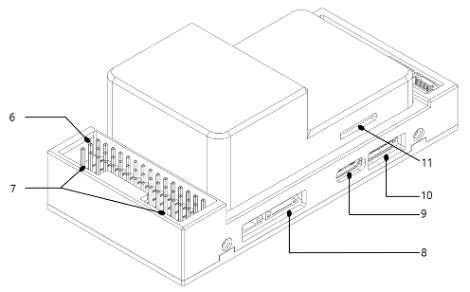
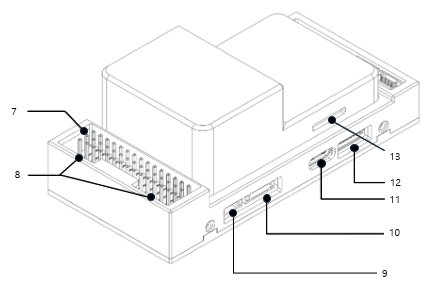
Update common-NarinFC-H7.rst

diff --git a/common/source/docs/common-NarinFC-H7.rst b/common/source/docs/common-NarinFC-H7.rst
@@ -1,50 +1,81 @@
 .. _common-NarinFC-H7:
 
-=========================
-NarinFC-H7
-=========================
+============================
+NarinFC-H7 VOLOLAND CO., LTD
+============================
 
-The NarinFC-H7 is a flight controller designed and produced by `VOLOLAND Co., Ltd. <https://vololand.com/>`_
+Introduction
+============
+
+The NarinFC-H7 is a flight controller produced by `VOLOLAND CO., LTD <https://vololand.com/>`_
+
+NarinFC-H7 is an advanced autopilot family designed in-house by VOLOLAND CO., LTD.
+
+It uses a higher-performance STM32H7 processor and integrates industrial-grade sensors.
+
+Compared with previous autopilots, it has better performance and higher reliability.
 
 .. image:: ../../../images/NarinFC/NarinFC_Header.jpg
   :target: ../../../images/NarinFC/NarinFC_Header.jpg
 
-Specifications
-==============
+
+
+Features/Specifications
+=======================
 
 -  **Processor**
+
     - STM32H743
 
 -  **Sensors**
+
     - Accelerometer/Gyroscope: ADIS16470
+
     - Accelerometer/Gyroscope: ICM-20649
-	- Accelerometer/Gyroscope: BMI088
-	- Magnetometer: RM3100
-	- Barometer: MS5611*2
+
+    - Accelerometer/Gyroscope: BMI088
+
+    - Magnetometer: RM3100
+
+    - Barometer: MS5611*2
 
 -  **Interfaces**
-    - 14 PWM Output
-	- Support multiple RC inputs (SBus / CPPM / DSM)
-	- 2 GPS ports (GPS and UART4 ports)
-	- 4 ⅹ I2C
-	- 2 ⅹ CAN bus ports
-	- 2 ⅹ Power ports
-	- 2 ⅹ ADC ports
-	- 1 ⅹ USB ports
+
+    - 14 PWM servo outputs
+
+    - Support multiple RC inputs (SBus / CPPM / DSM)
+
+    - Analog/PWM RSSI input
+
+    - 2 GPS ports (GPS and UART4 ports)
+
+    - 4 ⅹ I2C buses
+
+    - 2 ⅹ CAN bus ports
+
+    - 2 ⅹ Power ports
+
+    - 2 ⅹ ADC ports
+
+    - 1 ⅹ USB port
 
 -  **Power**
+
     - Power 4.3V ~ 5.4V
+
     - USB Input 4.75V ~ 5.25V
 
 -  **Size and Dimensions**
+
     - 93.4mm x 46.4mm x 34.1mm
+
     - 106g
 
 
 
 Where to Buy
 ============
- - `NarinFC-H7 VOLOLAND Co., Ltd. <https://vololand.com/>`
+- `NarinFC-H7 VOLOLAND CO., LTD. <https://vololand.com/>`_
 
 
 
@@ -64,8 +95,20 @@ Wire Diagram
 
 
 
-Port Diagram & Pinouts
-======================
+UART Mapping (Port Diagram & Pinouts)
+=====================================
+
+- SERIAL0 = console = USB (MAVLink2)
+- SERIAL1 = Telemetry1 (MAVlink2 default)= USART2 DMA-enabled
+- SERIAL2 = Telemetry2 (MAVlink2 default)= USART6 DMA-enabled
+- SERIAL3 = GPS1 = USART1
+- SERIAL4 = GPS2 = UART4
+- SERIAL5 = USER = UART8 (not available except on custom carrier boards) DMA-enabled
+- SERIAL6 = USER = UART7 DMA-enabled
+- SERIAL7 = USB2 (Default protocol is MAVLink2)
+  
+Serial protocols can be adjusted to personal preferences.
+
 .. image:: ../../../images/NarinFC/4.Port_Diagram_Pin_outs_Diagram-A.png
   :target: ../../../images/NarinFC/4.Port_Diagram_Pin_outs_Diagram-A.png
   :width: 375px
@@ -74,53 +117,183 @@ Port Diagram & Pinouts
   :target: ../../../images/NarinFC/4.Port_Diagram_Pin_outs_Diagram-B.png
   :width: 410px
 
--  **1. TELEM1, TELEM2 Port (JST GH 6P Connector)**
-.. image:: ../../../images/NarinFC/4.1.TELEM1,TELEM2_Port_JST_GH_6P_Connector.png
-  :target: ../../../images/NarinFC/4.1.TELEM1,TELEM2_Port_JST_GH_6P_Connector.png
+-  **1. TELEM1, TELEM2 Port**
+    .. image:: ../../../images/NarinFC/4.1.TELEM1,TELEM2_Port_JST_GH_6P_Connector.png
+      :target: ../../../images/NarinFC/4.1.TELEM1,TELEM2_Port_JST_GH_6P_Connector.png
 
--  **2. CAN1, CAN2 Port (JST GH 4P Connector)**
-.. image:: ../../../images/NarinFC/4.2.CAN1,CAN2_Port_JST_HG_4P_Connector.png
-  :target: ../../../images/NarinFC/4.2.CAN1,CAN2_Port_JST_HG_4P_Connector.png
+    - JST GH 6P connector
+    - TELEMETRY Port
 
--  **3. I2C, I2C2, I2C3, I2C4 Port (JST GH 4P Connector)**
-.. image:: ../../../images/NarinFC/4.3.I2C1,I2C2,I2C3,I2C4_Port_JST_GH_4P_Connector.png
-  :target: ../../../images/NarinFC/4.3.I2C1,I2C2,I2C3,I2C4_Port_JST_GH_4P_Connector.png
+-  **2. CAN1, CAN2 Port**
+    .. image:: ../../../images/NarinFC/4.2.CAN1,CAN2_Port_JST_HG_4P_Connector.png
+      :target: ../../../images/NarinFC/4.2.CAN1,CAN2_Port_JST_HG_4P_Connector.png
 
--  **4. UART4 Port (JST GH 6P Connector)**
-.. image:: ../../../images/NarinFC/4.4.UART4_Port_JST_GH_6P_Connector.png
-  :target: ../../../images/NarinFC/4.4.UART4_Port_JST_GH_6P_Connector.png
+    - JST GH 4P connector
+    - Communication Protocol: UAVCAN v0 (default), UAVCAN v1 (limited support)
+    - Power Supply: Typically provides 5V or 12V output
+    - Pin Configuration: Usually includes CAN_H, CAN_L, VCC, and GND
 
--  **5. GPS & Safety Port (JST GH 10P Connector)**
-.. image:: ../../../images/NarinFC/4.5.GPS_Safety_Port_JST_GH_10P_Connector.png
-  :target: ../../../images/NarinFC/4.5.GPS_Safety_Port_JST_GH_10P_Connector.png
+-  **3. I2C, I2C2, I2C3, I2C4 Port**
+    .. image:: ../../../images/NarinFC/4.3.I2C1,I2C2,I2C3,I2C4_Port_JST_GH_4P_Connector.png
+      :target: ../../../images/NarinFC/4.3.I2C1,I2C2,I2C3,I2C4_Port_JST_GH_4P_Connector.png
 
--  **6. PWM Out (M1-M14)**
-The NarinFC-H7 supports up to 14 PWM outputs. 
-All outputs support DShot and BiDirDshot. 
-Outputs are grouped and all outputs within their group must be the same protocol.
+    - JST GH 4P connector
+    
+-  **4. UART4 Port**
+    .. image:: ../../../images/NarinFC/4.4.UART4_Port_JST_GH_6P_Connector.png
+      :target: ../../../images/NarinFC/4.4.UART4_Port_JST_GH_6P_Connector.png
 
-.. image:: ../../../images/NarinFC/4.6.PWM_Out_M1-M14.png
-  :target: ../../../images/NarinFC/4.6.PWM_Out_M1-M14.png
-
--  **7. Power Input**
-.. image:: ../../../images/NarinFC/4.7.Power_Input.png
-  :target: ../../../images/NarinFC/4.7.Power_Input.png
-
--  **8. DEBUG Port(JST GH 6P Connector)**
-.. image:: ../../../images/NarinFC/4.8.DEBUG_Port_JST_HG_6P_Connector.png
-  :target: ../../../images/NarinFC/4.8.DEBUG_Port_JST_HG_6P_Connector.png
-
--  **9. USB Port(USB C Type)**
-
--  **10. SPI Port (JST GH 7P Connector)**
-.. image:: ../../../images/NarinFC/4.10.SPI_Port_JST_GH_7P_Connector.png
-  :target: ../../../images/NarinFC/4.10.SPI_Port_JST_GH_7P_Connector.png
-
--  **11. SD CARD**
+    - JST GH 6P connector
 
 
+-  **5. RSSI Port**
+    .. image:: ../../../images/NarinFC/13.RSSI.png
+      :target: ../../../images/NarinFC/13.RSSI.png
 
-Firmware
+    - RSSI input
+
+-  **6. GPS & Safety Port**
+    .. image:: ../../../images/NarinFC/4.5.GPS_Safety_Port_JST_GH_10P_Connector.png
+      :target: ../../../images/NarinFC/4.5.GPS_Safety_Port_JST_GH_10P_Connector.png
+
+    - JST GH 10P connector
+    - GPS NODMA
+
+-  **7. PWM & RC_IN**
+    The NarinFC-H7 supports up to 14 PWM outputs. Outputs are grouped and all outputs within their group must be the same protocol.
+
+    .. image:: ../../../images/NarinFC/4.6.PWM_Out_M1-M14.png
+      :target: ../../../images/NarinFC/4.6.PWM_Out_M1-M14.png
+  
+    - 2.54mm pitch Dupont connector
+    - RC_IN : Remote control receiver
+
+-  **8. Power Input**
+    .. image:: ../../../images/NarinFC/4.7.Power_Input.png
+      :target: ../../../images/NarinFC/4.7.Power_Input.png
+
+    - 2mm pitch Dupont connector
+
+-  **9. ADC Port**
+    .. image:: ../../../images/NarinFC/12.ADC.png
+      :target: ../../../images/NarinFC/12.ADC.png
+
+    - ADC input
+
+-  **10. DEBUG & UART7 Port**
+    .. image:: ../../../images/NarinFC/4.8.DEBUG_Port_JST_HG_6P_Connector.png
+      :target: ../../../images/NarinFC/4.8.DEBUG_Port_JST_HG_6P_Connector.png
+
+    - JST GH 6P connector
+    - DEBUG NODMA
+
+-  **11. USB Port**
+
+    - USB C Type
+
+-  **12. SPI Port**
+    .. image:: ../../../images/NarinFC/4.10.SPI_Port_JST_GH_7P_Connector.png
+      :target: ../../../images/NarinFC/4.10.SPI_Port_JST_GH_7P_Connector.png
+
+    - JST GH 7P connector
+    - SPI Port
+
+-  **13. SD CARD**
+
+    - SD CARD
+
+
+
+PWM Output
+==========
+
+The NarinFC-H7 supports up to 14 PWM outputs.
+
+The 14 PWM outputs are in 4 groups :
+
+   - Outputs 1, 2, 3 and 4 in group1
+   - Outputs 5, 6, 7 and 8 in group2
+   - Outputs 9, 10, 11 and 12 in group3
+   - Outputs 13 and 14 in group4
+
+ALL outputs within the same group need to use the same output rate and protocol.
+
+
+
+GPIOs
+=====
+
+The 14 outputs can be used as GPIOs (relays, buttons, RPM etc). To use them you need to set the output’s SERVOx_FUNCTION to -1. See GPIOs page for more information.
+
+The numbering of the GPIOs for use in the PIN parametersin ArduPilot is :
+
+pins :
+
+   - PWM1(M1) 50
+   - PWM2(M2) 51
+   - PWM3(M3) 52
+   - PWM4(M4) 53
+   - PWM5(M5) 54
+   - PWM6(M6) 55
+   - PWM7(M7) 56
+   - PWM8(M8) 57
+   - PWM9(M9) 58
+   - PWM10(M10) 59
+   - PWM11(M11) 60
+   - PWM12(M12) 61
+   - PWM13(M13) 62
+   - PWM14(M14) 63
+
+
+
+Analog inputs
+=============
+
+The NarinFC-H7 has 2 analog inputs, one 6V tolerant and one 3.3V tolerant
+
+   - ADC Pin16 -> BATT_VOLTAGE_SENS
+   - ADC Pin17 -> BATT_CURRENT_SENS
+   - ADC Pin14 -> BATT2_VOLTAGE_SENS
+   - ADC Pin2  -> BATT2_VOLTAGE_SENS
+   - ADC Pin4  -> SPARE1_ADC1(6.6V)
+   - ADC Pin18 -> SPARE2_ADC1(3.3V)
+   - ADC Pin6  -> RSSI_IN_ADC1(3.3V)
+   - ADC Pin8  -> VDD_5V_SENS
+   - ADC Pin11 -> SCALED_V3V3
+
+
+
+Battery Monitor
+===============
+
+The board has two dedicated power monitor ports on 6 pin connectors. The correct battery setting parameters are dependent on the type of power brick which is connected.
+
+
+
+RC Input
 ========
-This board comes with ArduPilot firmware pre-installed and other vehicle/revision Ardupilot firmware can be loaded using most Ground Control Stations.
-Firmware for this board can be found here in sub-folders labeled “NarinFC-H7”.
+
+The RCIN pin, which by default is mapped to a timer input, can be used for all ArduPilot supported receiver protocols, except CRSF/ELRS and SRXL2 which require a true UART connection. However, FPort, when connected in this manner, will only provide RC without telemetry. 
+
+To allow CRSF and embedded telemetry available in Fport, CRSF, and SRXL2 receivers, a full UART, such as SERIAL6 (UART7) would need to be used for receiver connections. Below are setups using Serial6.
+
+   - :ref:`SERIAL6_PROTOCOL<SERIAL6_PROTOCOL>` should be set to "23". 
+   - FPort would require :ref:`SERIAL6_OPTIONS<SERIAL6_OPTIONS>` be set to "15". 
+   - CRSF would require :ref:`SERIAL6_OPTIONS<SERIAL6_OPTIONS>` be set to "0". 
+   - SRXL2 would require :ref:`SERIAL6_OPTIONS<SERIAL6_OPTIONS>` be set to "4" and connects only the TX pin. 
+
+Any UART can be used for RC system connections in ArduPilot also, and is compatible with all protocols except PPM. 
+See :ref:`common-rc-systems` for details.  The power rail associated with this connector position is powered via USB or PMU. 
+
+
+
+Loading Firmware
+================
+
+This board comes with ArduPilot firmware pre-installed and other vehicle/revision Ardupilot firmware can be loaded using most Ground Control Stations. 
+
+Firmware for these boards can be found at https://firmware.ardupilot.org in sub-folders labeled “NarinFC-H7”. 
+
+The board comes pre-installed with an NarinFC-H7 bootloader, allowing the loading of *.apj firmware files with any ArduPilot compatible ground station. 
+
+you can update firmware with Mission Planner.
